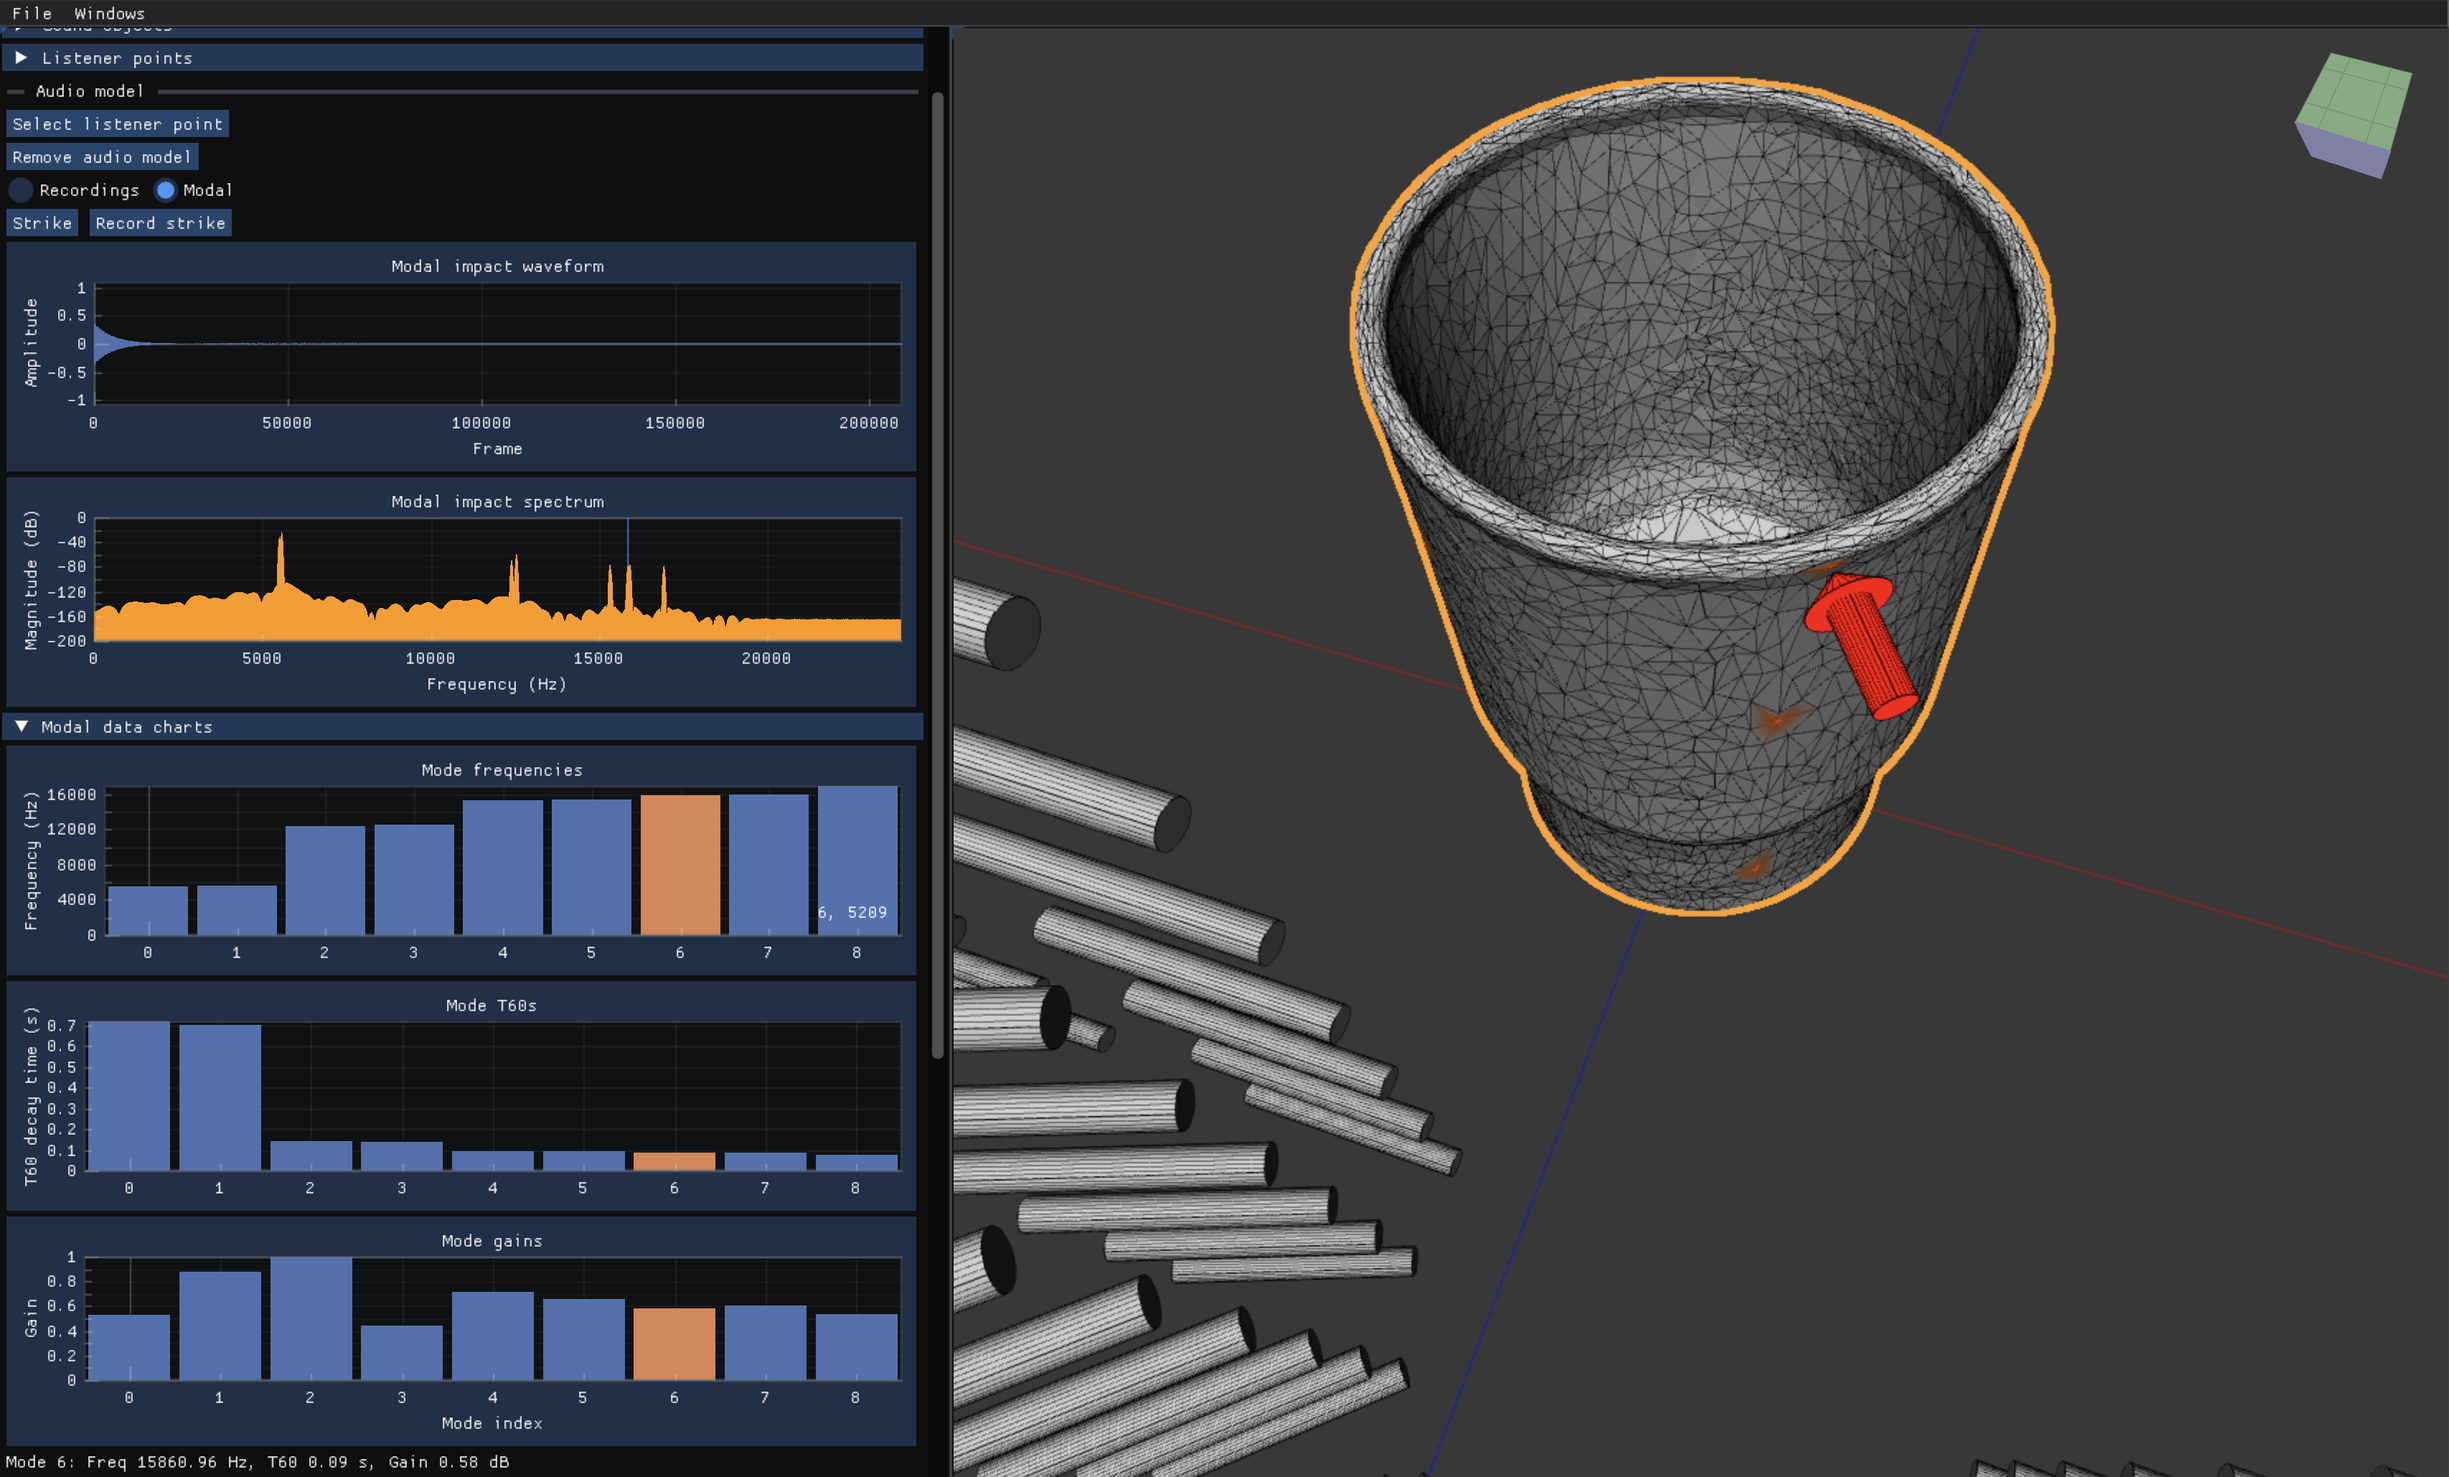
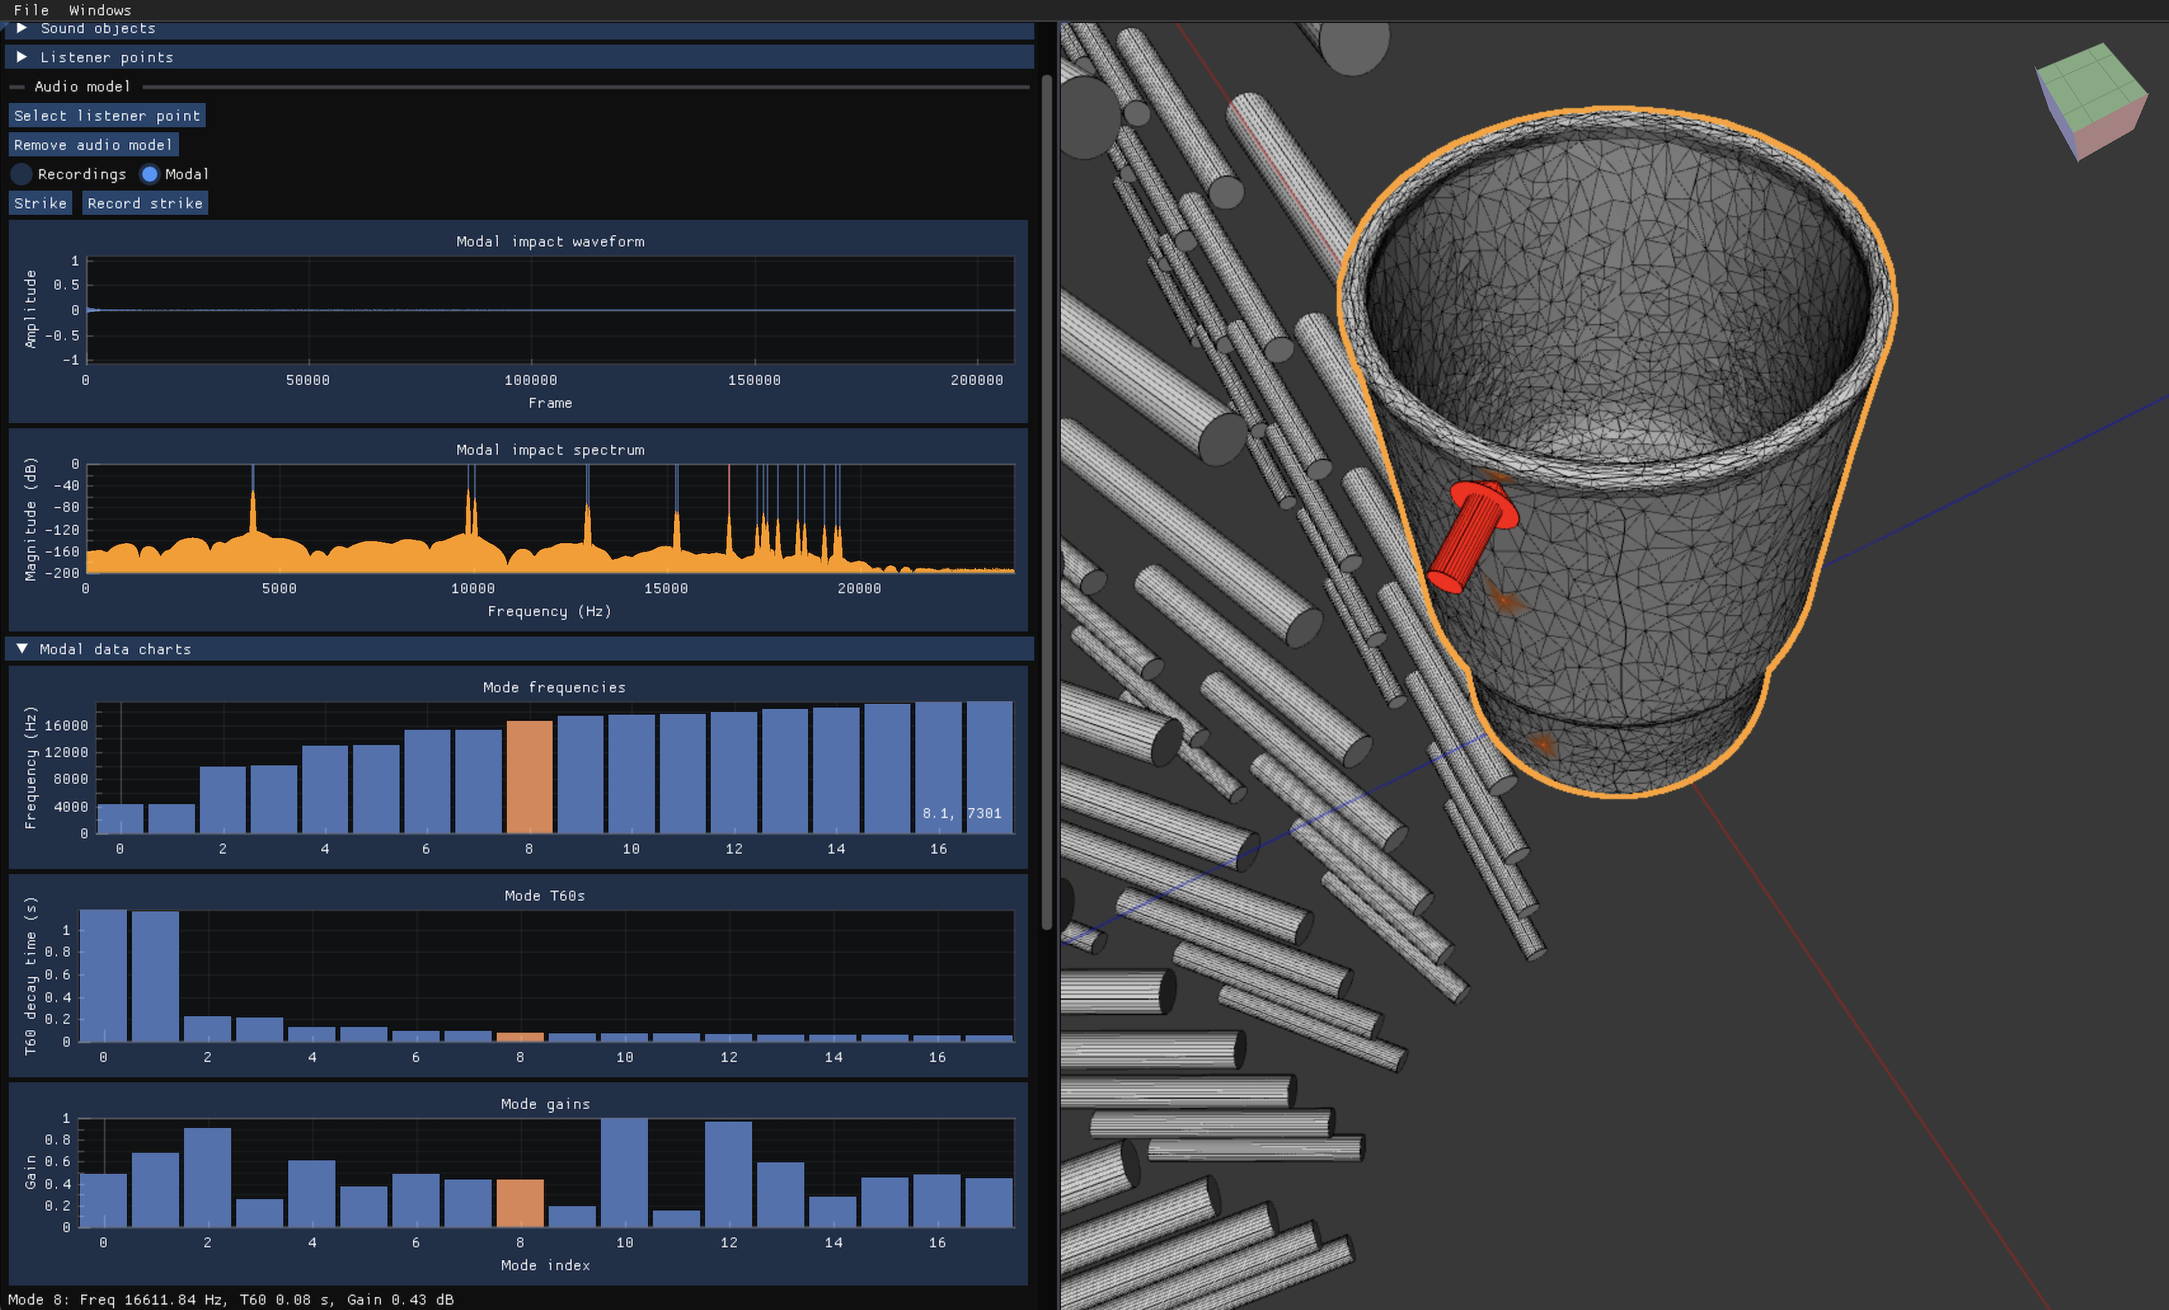
Find and display the top-n empirical modes in mag spectrum by simple peak searching. Display all estimated modes in mag spectrum but highlight the hovered mode.

diff --git a/src/audio/SoundObject.cpp b/src/audio/SoundObject.cpp
@@ -59,18 +59,42 @@ std::vector<float> ApplyWindow(const std::vector<float> &window, const float *da
 
 constexpr uint SampleRate = 48000; // todo respect device sample rate
 
+static std::vector<float> FindPeakFrequencies(const fftwf_complex *data, uint n_bins, uint n_peaks) {
+    const uint N_2 = n_bins / 2;
+
+    std::vector<std::pair<float, uint>> peaks;
+    for (uint i = 1; i < N_2 - 1; i++) {
+        float mag_sq = data[i][0] * data[i][0] + data[i][1] * data[i][1];
+        float left_mag_sq = data[i - 1][0] * data[i - 1][0] + data[i - 1][1] * data[i - 1][1];
+        float right_mag_sq = data[i + 1][0] * data[i + 1][0] + data[i + 1][1] * data[i + 1][1];
+        if (mag_sq > left_mag_sq && mag_sq > right_mag_sq) peaks.emplace_back(mag_sq, i);
+    }
+
+    // Sort descending by magnitude and convert to frequency.
+    std::ranges::sort(peaks, [](const auto &a, const auto &b) { return a.first > b.first; });
+    return peaks | std::views::take(n_peaks) |
+        transform([n_bins](const auto &p) { return float(p.second * SampleRate / n_bins); }) | to<std::vector>();
+}
+
 struct Waveform {
-    // Capture a short audio segment just after the impact for FFT.
-    inline static const uint FftStartFrame = 20, FftEndFrame = SampleRate / 20;
+    // Capture a short audio segment shortly after the impact for FFT.
+    static constexpr uint FftStartFrame = 30, FftEndFrame = SampleRate / 16;
     inline static auto BHWindow = CreateBlackmanHarris(FftEndFrame - FftStartFrame);
     const std::vector<float> Frames;
     std::vector<float> WindowedFrames;
     const FFTData FftData;
+    std::vector<float> PeakFrequencies;
 
     Waveform(const float *frames, uint frame_count)
         : Frames(frames, frames + frame_count),
-          WindowedFrames(ApplyWindow(BHWindow, Frames.data() + FftStartFrame)),
-          FftData(WindowedFrames) {}
+          WindowedFrames(ApplyWindow(BHWindow, Frames.data() + FftStartFrame)), FftData(WindowedFrames) {}
+
+    void PlotFrames(const std::string &label = "Waveform") const;
+    void PlotMagnitudeSpectrum(const std::string &label = "Magnitude spectrum", std::optional<float> highlight_freq = std::nullopt) const;
+
+    void FindPeakFrequencies(uint n_peaks) {
+        PeakFrequencies = ::FindPeakFrequencies(FftData.Complex, WindowedFrames.size(), n_peaks);
+    }
 };
 
 // `FaustDSP` is a wrapper around a Faust DSP and Box.
@@ -185,6 +209,7 @@ void SoundObjectData::ImpactAudio::SetVertex(uint vertex) {
     if (ImpactFramesByVertex.contains(vertex)) {
         auto &frames = ImpactFramesByVertex.at(vertex);
         Waveform = std::make_unique<::Waveform>(frames.data(), frames.size());
+        Waveform->FindPeakFrequencies(10);
     }
 }
 
@@ -336,28 +361,28 @@ using namespace ImGui;
 
 static const ImVec2 ChartSize = {-1, 160};
 
-static void RenderWaveform(const Waveform &waveform, const std::string &label = "Waveform") {
+static float LinearToDb(float linear) { return 20.0f * log10f(linear); }
+
+void Waveform::PlotFrames(const std::string &label) const {
     if (ImPlot::BeginPlot(label.c_str(), ChartSize)) {
         ImPlot::SetupAxes("Frame", "Amplitude");
-        ImPlot::SetupAxisLimits(ImAxis_X1, 0, waveform.Frames.size(), ImGuiCond_Always);
+        ImPlot::SetupAxisLimits(ImAxis_X1, 0, Frames.size(), ImGuiCond_Always);
         ImPlot::SetupAxisLimits(ImAxis_Y1, -1.1, 1.1, ImGuiCond_Always);
         ImPlot::PushStyleVar(ImPlotStyleVar_Marker, ImPlotMarker_None);
-        ImPlot::PlotLine("", waveform.Frames.data(), waveform.Frames.size());
+        ImPlot::PlotLine("", Frames.data(), Frames.size());
         ImPlot::PopStyleVar();
         ImPlot::EndPlot();
     }
 }
 
-static float LinearToDb(float linear) { return 20.0f * log10f(linear); }
-
-static void RenderMagnitudeSpectrum(const Waveform &waveform, const std::string &label = "Magnitude spectrum", std::optional<float> highlight_freq = std::nullopt) {
+void Waveform::PlotMagnitudeSpectrum(const std::string &label, std::optional<float> highlight_freq) const {
     if (ImPlot::BeginPlot(label.c_str(), ChartSize)) {
         static const float MIN_DB = -200;
-        const FFTData &fft = waveform.FftData;
-        const uint N = waveform.WindowedFrames.size();
+        const FFTData &fft = FftData;
+        const uint N = WindowedFrames.size();
         const uint N_2 = N / 2;
         const float fs = SampleRate; // todo flexible sample rate
-        const float fs_n = fs / float(N);
+        const float fs_n = SampleRate / float(N);
 
         static std::vector<float> frequency(N_2), magnitude(N_2);
         frequency.resize(N_2);
@@ -366,8 +391,7 @@ static void RenderMagnitudeSpectrum(const Waveform &waveform, const std::string 
         const auto *data = fft.Complex;
         for (uint i = 0; i < N_2; i++) {
             frequency[i] = fs_n * float(i);
-            const float mag_linear = sqrtf(data[i][0] * data[i][0] + data[i][1] * data[i][1]) / float(N_2);
-            magnitude[i] = LinearToDb(mag_linear);
+            magnitude[i] = LinearToDb(sqrtf(data[i][0] * data[i][0] + data[i][1] * data[i][1]) / float(N_2));
         }
 
         ImPlot::SetupAxes("Frequency (Hz)", "Magnitude (dB)");
@@ -375,9 +399,12 @@ static void RenderMagnitudeSpectrum(const Waveform &waveform, const std::string 
         ImPlot::SetupAxisLimits(ImAxis_Y1, MIN_DB, 0, ImGuiCond_Always);
         ImPlot::PushStyleVar(ImPlotStyleVar_Marker, ImPlotMarker_None);
         ImPlot::PushStyleColor(ImPlotCol_Fill, ImGui::GetStyleColorVec4(ImGuiCol_PlotHistogramHovered));
+        for (uint freq : PeakFrequencies) ImPlot::PlotInfLines("##Peak", &freq, 1);
         if (highlight_freq) {
+            ImPlot::PushStyleColor(ImPlotCol_Line, ImGui::GetStyleColorVec4(ImGuiCol_PlotLinesHovered));
             const float freq = *highlight_freq;
             ImPlot::PlotInfLines("##Highlight", &freq, 1);
+            ImPlot::PopStyleColor();
         }
         ImPlot::PlotShaded("", frequency.data(), magnitude.data(), N_2, MIN_DB);
         ImPlot::PopStyleColor();
@@ -387,7 +414,7 @@ static void RenderMagnitudeSpectrum(const Waveform &waveform, const std::string 
 }
 
 // Returns the index of the hovered mode, if any.
-static std::optional<size_t> RenderModePlot(
+static std::optional<size_t> PlotModeData(
     const std::vector<float> &data, const std::string &label, const std::string &x_label, const std::string &y_label,
     std::optional<size_t> highlight_index = std::nullopt, std::optional<float> max_value_opt = std::nullopt
 ) {
@@ -436,8 +463,8 @@ void SoundObject::RenderControls() {
             EndCombo();
         }
         if (ImpactAudioData->Waveform) {
-            RenderWaveform(*ImpactAudioData->Waveform, "Real-world impact waveform");
-            RenderMagnitudeSpectrum(*ImpactAudioData->Waveform, "Real-world impact spectrum");
+            ImpactAudioData->Waveform->PlotFrames("Real-world impact waveform");
+            ImpactAudioData->Waveform->PlotMagnitudeSpectrum("Real-world impact spectrum");
         }
     } else if (ModalData) {
         if (ModalData->FaustDsp && ModalData->FaustDsp->Ui) {
@@ -454,11 +481,12 @@ void SoundObject::RenderControls() {
 
             if (ImpactRecording && ImpactRecording->Complete) {
                 ModalData->Waveform = std::make_unique<Waveform>(ImpactRecording->Frames, ImpactRecording::FrameCount);
+                ModalData->Waveform->PeakFrequencies = {ModalData->ModeFreqs.begin(), ModalData->ModeFreqs.begin() + ModalData->ModeFreqs.size()};
                 ImpactRecording.reset();
             }
             if (ModalData->Waveform) {
-                RenderWaveform(*ModalData->Waveform, "Modal impact waveform");
-                RenderMagnitudeSpectrum(*ModalData->Waveform, "Modal impact spectrum", HoveredModeIndex ? std::optional{ModalData->ModeFreqs[*HoveredModeIndex]} : std::nullopt);
+                ModalData->Waveform->PlotFrames("Modal impact waveform");
+                ModalData->Waveform->PlotMagnitudeSpectrum("Modal impact spectrum", HoveredModeIndex ? std::optional{ModalData->ModeFreqs[*HoveredModeIndex]} : std::nullopt);
             }
 
             // Poll the Faust DSP UI to see if the current excitation vertex has changed.
@@ -467,9 +495,9 @@ void SoundObject::RenderControls() {
 
             if (CollapsingHeader("Modal data charts")) {
                 std::optional<size_t> new_hovered_index;
-                if (auto hovered = RenderModePlot(ModalData->ModeFreqs, "Mode frequencies", "", "Frequency (Hz)", HoveredModeIndex)) new_hovered_index = hovered;
-                if (auto hovered = RenderModePlot(ModalData->ModeT60s, "Mode T60s", "", "T60 decay time (s)", HoveredModeIndex)) new_hovered_index = hovered;
-                if (auto hovered = RenderModePlot(ModalData->ModeGains[vertex_index], "Mode gains", "Mode index", "Gain", HoveredModeIndex, 1.f)) new_hovered_index = hovered;
+                if (auto hovered = PlotModeData(ModalData->ModeFreqs, "Mode frequencies", "", "Frequency (Hz)", HoveredModeIndex)) new_hovered_index = hovered;
+                if (auto hovered = PlotModeData(ModalData->ModeT60s, "Mode T60s", "", "T60 decay time (s)", HoveredModeIndex)) new_hovered_index = hovered;
+                if (auto hovered = PlotModeData(ModalData->ModeGains[vertex_index], "Mode gains", "Mode index", "Gain", HoveredModeIndex, 1.f)) new_hovered_index = hovered;
                 HoveredModeIndex = new_hovered_index;
                 if (HoveredModeIndex && *HoveredModeIndex < ModalData->ModeFreqs.size()) {
                     const auto hovered_index = *HoveredModeIndex;
